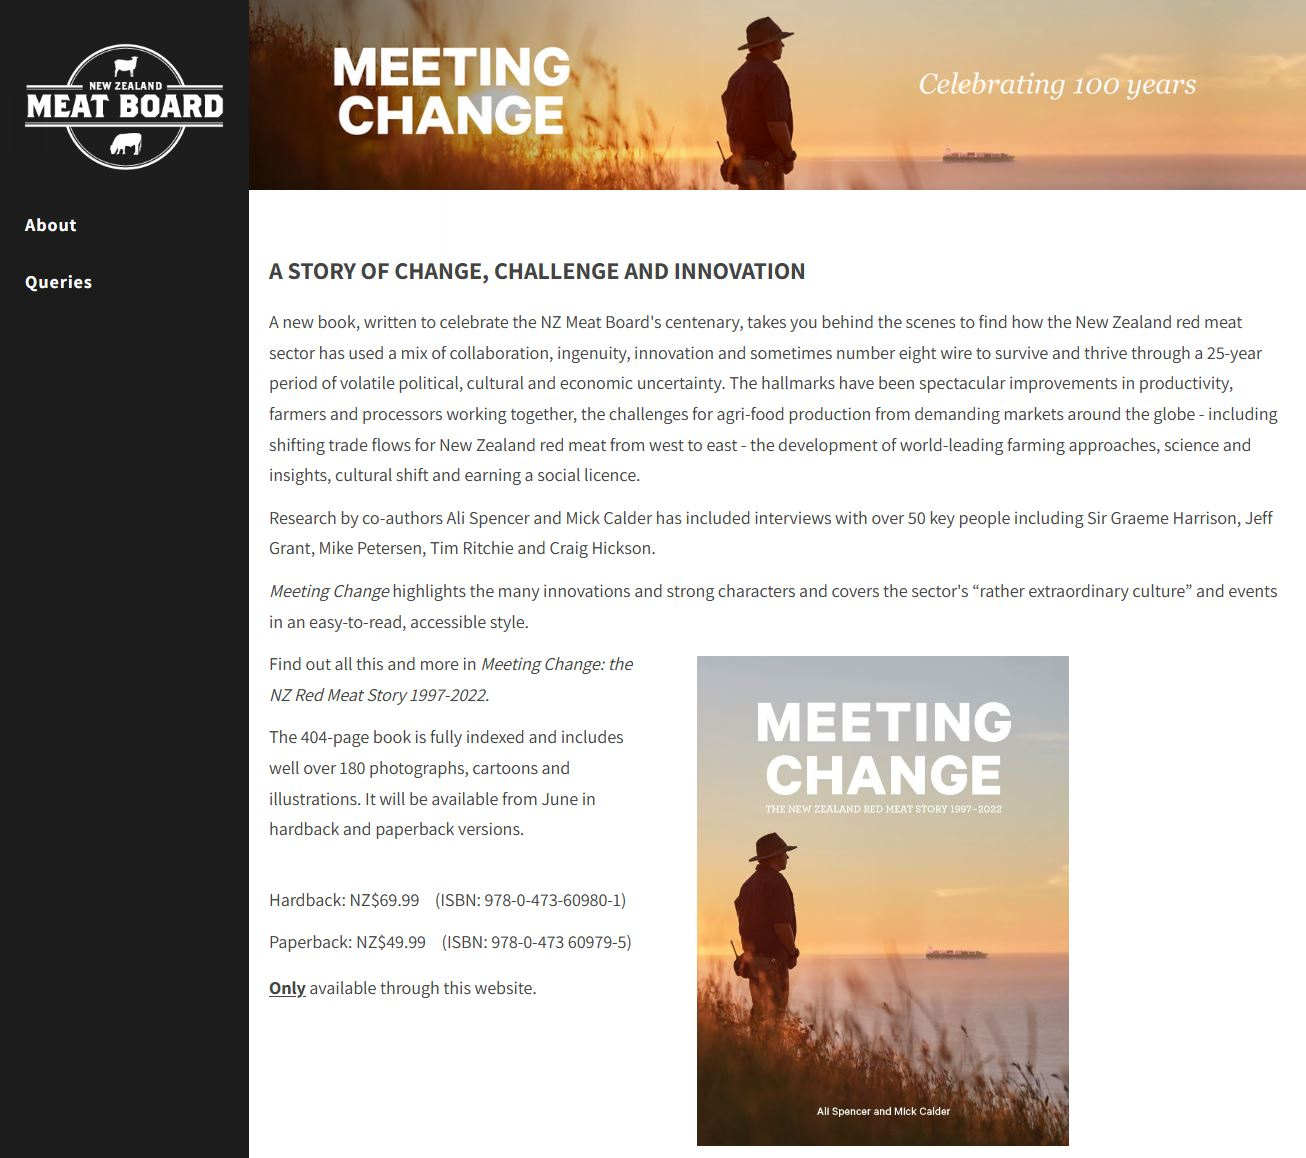
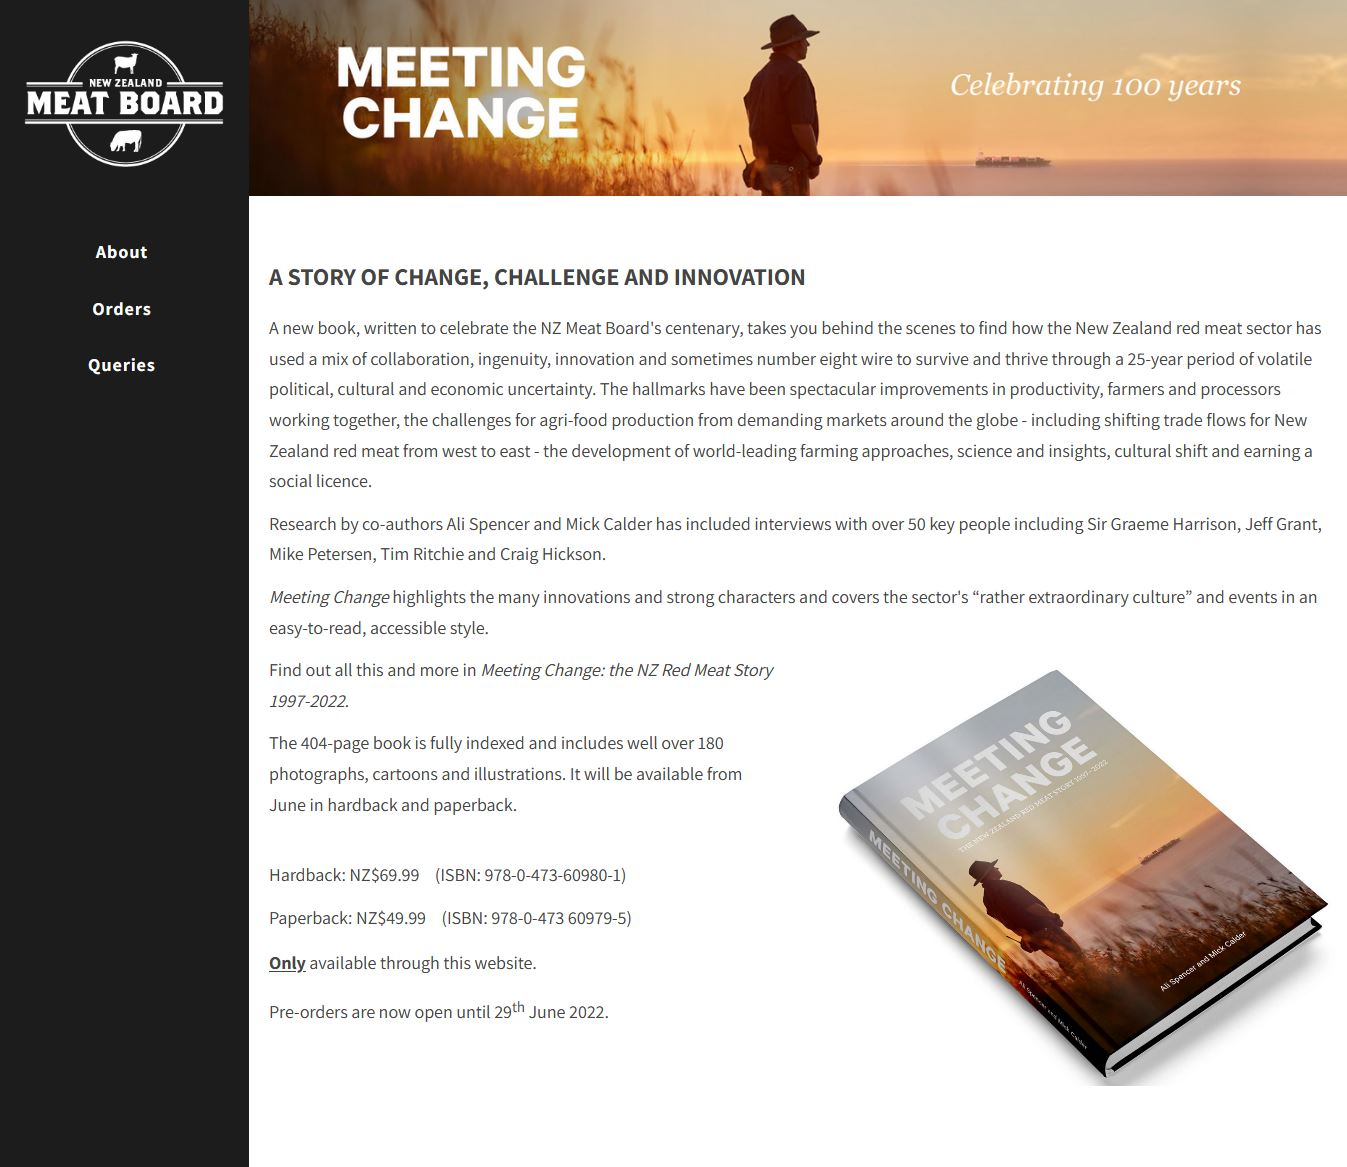
Added new ReactRecipes project, modified project card demo buttons. removed border from images under Work section.

diff --git a/components/Projects.js b/components/Projects.js
@@ -9,9 +9,66 @@ export default function Projects() {
 
                 <div className="mt-12 container mx-auto lg:flex justify-center">
 
+                    {/* Project 1 */}
+                    <div className="sm:basis-1/2 xl:basis-1/3 m-2 mb-8 mt-24 lg:mt-4 md:m-4 md:mb-12 shadow">
+                        <div className="relative w-46 h-96">
+                            {/* <Image 
+                                src={"/images/store-catalogue.jpg"} 
+                                alt="Profile picture" 
+                                layout="fill" 
+                                objectFit="cover"
+                                objectPosition="top"
+                                className="relative"
+                            /> */}
+                            <img 
+                                src={"/images/reactrecipes.jpg"} 
+                                alt="Project picture" 
+                                className="relative object-cover object-top w-full h-full"
+                            />
+                        </div>
+                        <div className="p-2">
+                            <div className="mt-12"> {/* flex items-center justify-between */}
+                                <h2 className="text-xl text-gray-700 uppercase">React Recipes</h2>
+                                <div className="text-right md:py-2">
+                                    <p className="text-gray-600 bg-gray-100 p-2 rounded inline-block">Demo TBC</p>
+                                </div>
+                                {/* <a href="https://www.mbroome.nz/cart/" target={"_blank"} rel="noreferrer" className="code-btn" >View Demo</a> */}
+                            </div>
+                            <div>
+                                <p className="text-gray-500 text-left mt-4">Recipe search app using Spoonacular's external food API. .Net Core 6 - C# Web API, React UI. Prototyped Styling with Bootstrap CSS.</p>
+                            </div>
+                            <div className="mt-6">
+                                <div className="flex justify-between">
+                                    <h4 className="text-gray-600 font-semibold text-lg">Frontend:</h4>
+                                    <a href="https://github.com/mbroome1/ReactRecipes/" target={"_blank"} rel="noreferrer" className="code-link">
+                                        <ion-icon name="logo-github"></ion-icon>
+                                        <span className="pl-2">View code </span>
+                                    </a>
+                                </div>
 
-                    {/* Project 1` */}
-                    <div className="sm:basis-1/2 xl:basis-1/3 m-2 mb-8 md:m-4 md:mb-12">
+                                <ul className="skills-list">
+                                    <li>React</li>
+                                    <li>Javascript</li>
+                                    <li>Bootstrap</li>
+                                    <li>CSS</li>
+                                    <li>JSON</li>
+                                </ul>
+                            </div>
+                            <div className="mt-8">
+                                <div className="flex justify-between">
+                                    <h4 className="text-gray-600 font-semibold text-lg">Backend:</h4>
+                                </div>
+                                <ul className="skills-list">
+                                    <li>.Net Core 6</li>
+                                    <li>C#</li>
+                                </ul>
+                            </div>
+                        </div>
+
+                    </div>
+
+                    {/* Project 2 */}
+                    <div className="sm:basis-1/2 xl:basis-1/3 m-2 mb-8 md:m-4 md:mb-12 shadow">
                         <div className="relative w-46 h-96">
                             {/* <Image 
                                 src={"/images/store-catalogue.jpg"} 
@@ -28,9 +85,11 @@ export default function Projects() {
                             />
                         </div>
                         <div className="p-2">
-                            <div className="mt-12 flex items-center justify-between">
+                            <div className="mt-12"> {/* flex items-center justify-between */}
                                 <h2 className="text-xl text-gray-700 uppercase">E-commerce store</h2>
-                                <a href="https://www.mbroome.nz/store/" target={"_blank"} rel="noreferrer" className="code-btn">View Demo</a>
+                                <div className="text-right md:py-2">
+                                    <a href="https://www.mbroome.nz/store/" target={"_blank"} rel="noreferrer" className="code-btn">View Demo</a>
+                                </div>
                             </div>
                             <div>
                                 <p className="text-gray-500 text-left mt-4">Login: test // test</p>
@@ -74,8 +133,8 @@ export default function Projects() {
 
                     </div>
 
-                    {/* Project 2` */}
-                    <div className="sm:basis-1/2 xl:basis-1/3 m-2 mb-8 mt-24 lg:mt-4 md:m-4 md:mb-12">
+                    {/* Project 3 */}
+                    <div className="sm:basis-1/2 xl:basis-1/3 m-2 mb-8 mt-24 lg:mt-4 md:m-4 md:mb-12 shadow">
                         <div className="relative w-46 h-96">
                             {/* <Image 
                                 src={"/images/store-catalogue.jpg"} 
@@ -92,9 +151,11 @@ export default function Projects() {
                             />
                         </div>
                         <div className="p-2">
-                            <div className="mt-12 flex items-center justify-between">
+                            <div className="mt-12"> {/* flex items-center justify-between */}
                                 <h2 className="text-xl text-gray-700 uppercase">Redux Cart</h2>
-                                <a href="https://www.mbroome.nz/cart/" target={"_blank"} rel="noreferrer" className="code-btn" >View Demo</a>
+                                <div className="text-right md:py-2">
+                                    <a href="https://www.mbroome.nz/cart/" target={"_blank"} rel="noreferrer" className="code-btn" >View Demo</a>
+                                </div>
                             </div>
                             <div>
                                 <p className="text-gray-500 text-left mt-4">My first react app, created for the purpose of learning react with redux state management.</p>

diff --git a/components/Work.js b/components/Work.js
@@ -22,7 +22,7 @@ export default function Work() {
                                 </div>
                             </div>
                         </div>
-                        <div className="basis-1/3 p-1 md:p-2 bg-gray-500 rounded shadow-lg shadow-gray-400">
+                        <div className="basis-1/3 rounded shadow-lg shadow-gray-400">
                             <img src={"/images/uniform-centre_home.jpg"}  alt="" className="relative object-cover object-top w-full h-full" />
                         </div>
                     </div>
@@ -36,19 +36,14 @@ export default function Work() {
 
                                 <div className="mt-3">
                                     <a href="https://www.meetingchange.nz" target="_blank" rel="noreferrer" className="code-link mt-3">View Website</a>
-                                    <span className='pl-3 text-sm text-gray-500'>(Stage 1 - Register Interest)</span>
                                 </div>
-                                <div>
-                                    <a href="https://bookers.nz/other/mike/nzmb" target="_blank" rel="noreferrer" className="code-link mt-3">View In-development Website</a>
-                                    <span className='pl-3 text-sm text-gray-500'>(Stage 2 - Pre-order)</span>
-                                </div>
-                               
+
                                 <div className="my-12 pr-4 lg:pr-24">
-                                    <p className="mt-3 text-g">Creating a single page website for ordering a soon to be released book on behalf of New Zealand Meatboard.</p>
+                                    <p className="mt-3 text-g">Creating a single page website for ordering a newly released book on behalf of New Zealand Meatboard.</p>
                                 </div>
                             </div>
                         </div>
-                        <div className="basis-1/3 p-1 md:p-2 bg-gray-500 rounded shadow-lg shadow-gray-400">
+                        <div className="basis-1/3 rounded shadow-lg shadow-gray-400">
                             <img src={"/images/meeting-change_home.jpg"}  alt="" className="relative object-cover object-top w-full h-full" />
                         </div>
                     </div>

diff --git a/components/Hero.js b/components/Hero.js
@@ -18,7 +18,7 @@ export default function Hero() {
                     <div className="container">
                         <p className="text-gray-800 text-xl md:text-3xl mt-10">Hello, I{'\''}m</p>
                         <h1 className="text-blue-700 text-3xl md:text-5xl sm:text-6xl my-4 ">Michael Broome</h1>
-                        <h2 className="text-gray-700 text-2xl md:text-3xl font-semibold mb-4">Web Developer & IT Support</h2>
+                        <h2 className="text-gray-700 text-2xl md:text-3xl font-semibold mb-4">Web Developer</h2>
                         <h3 className="text-gray-700 text-lg md:text-xl mb-4">Wellington, New Zealand</h3>
 
                         
